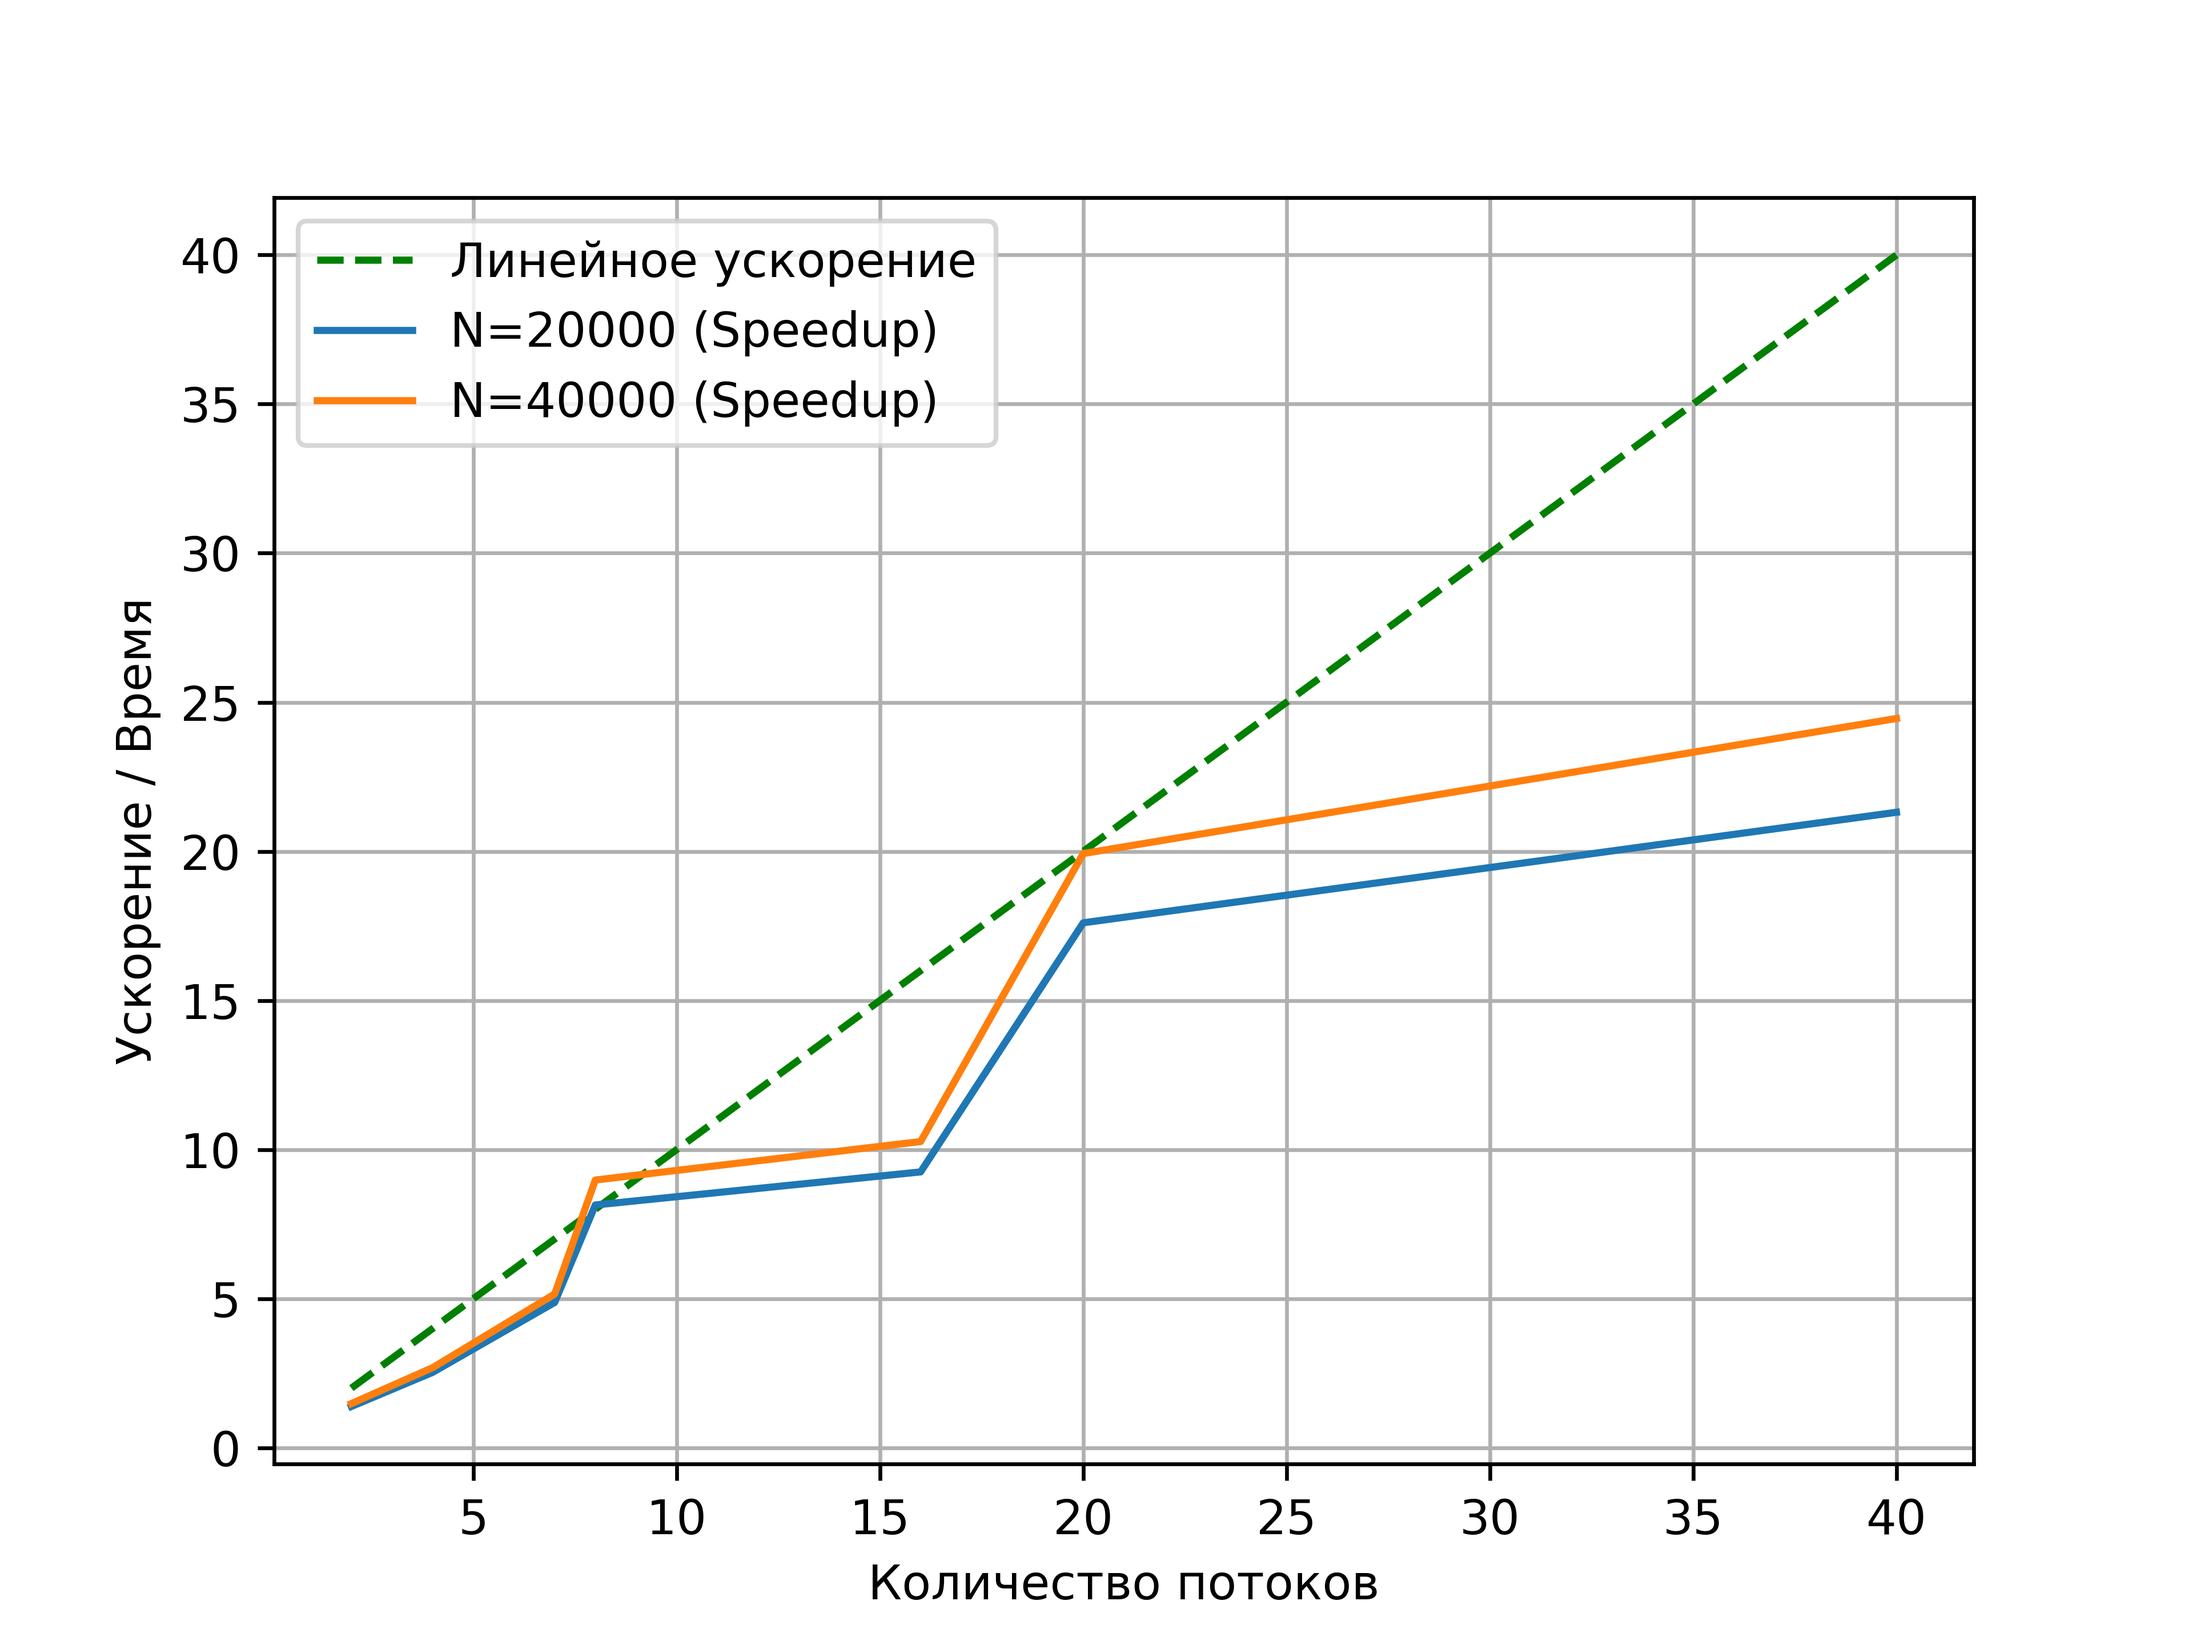
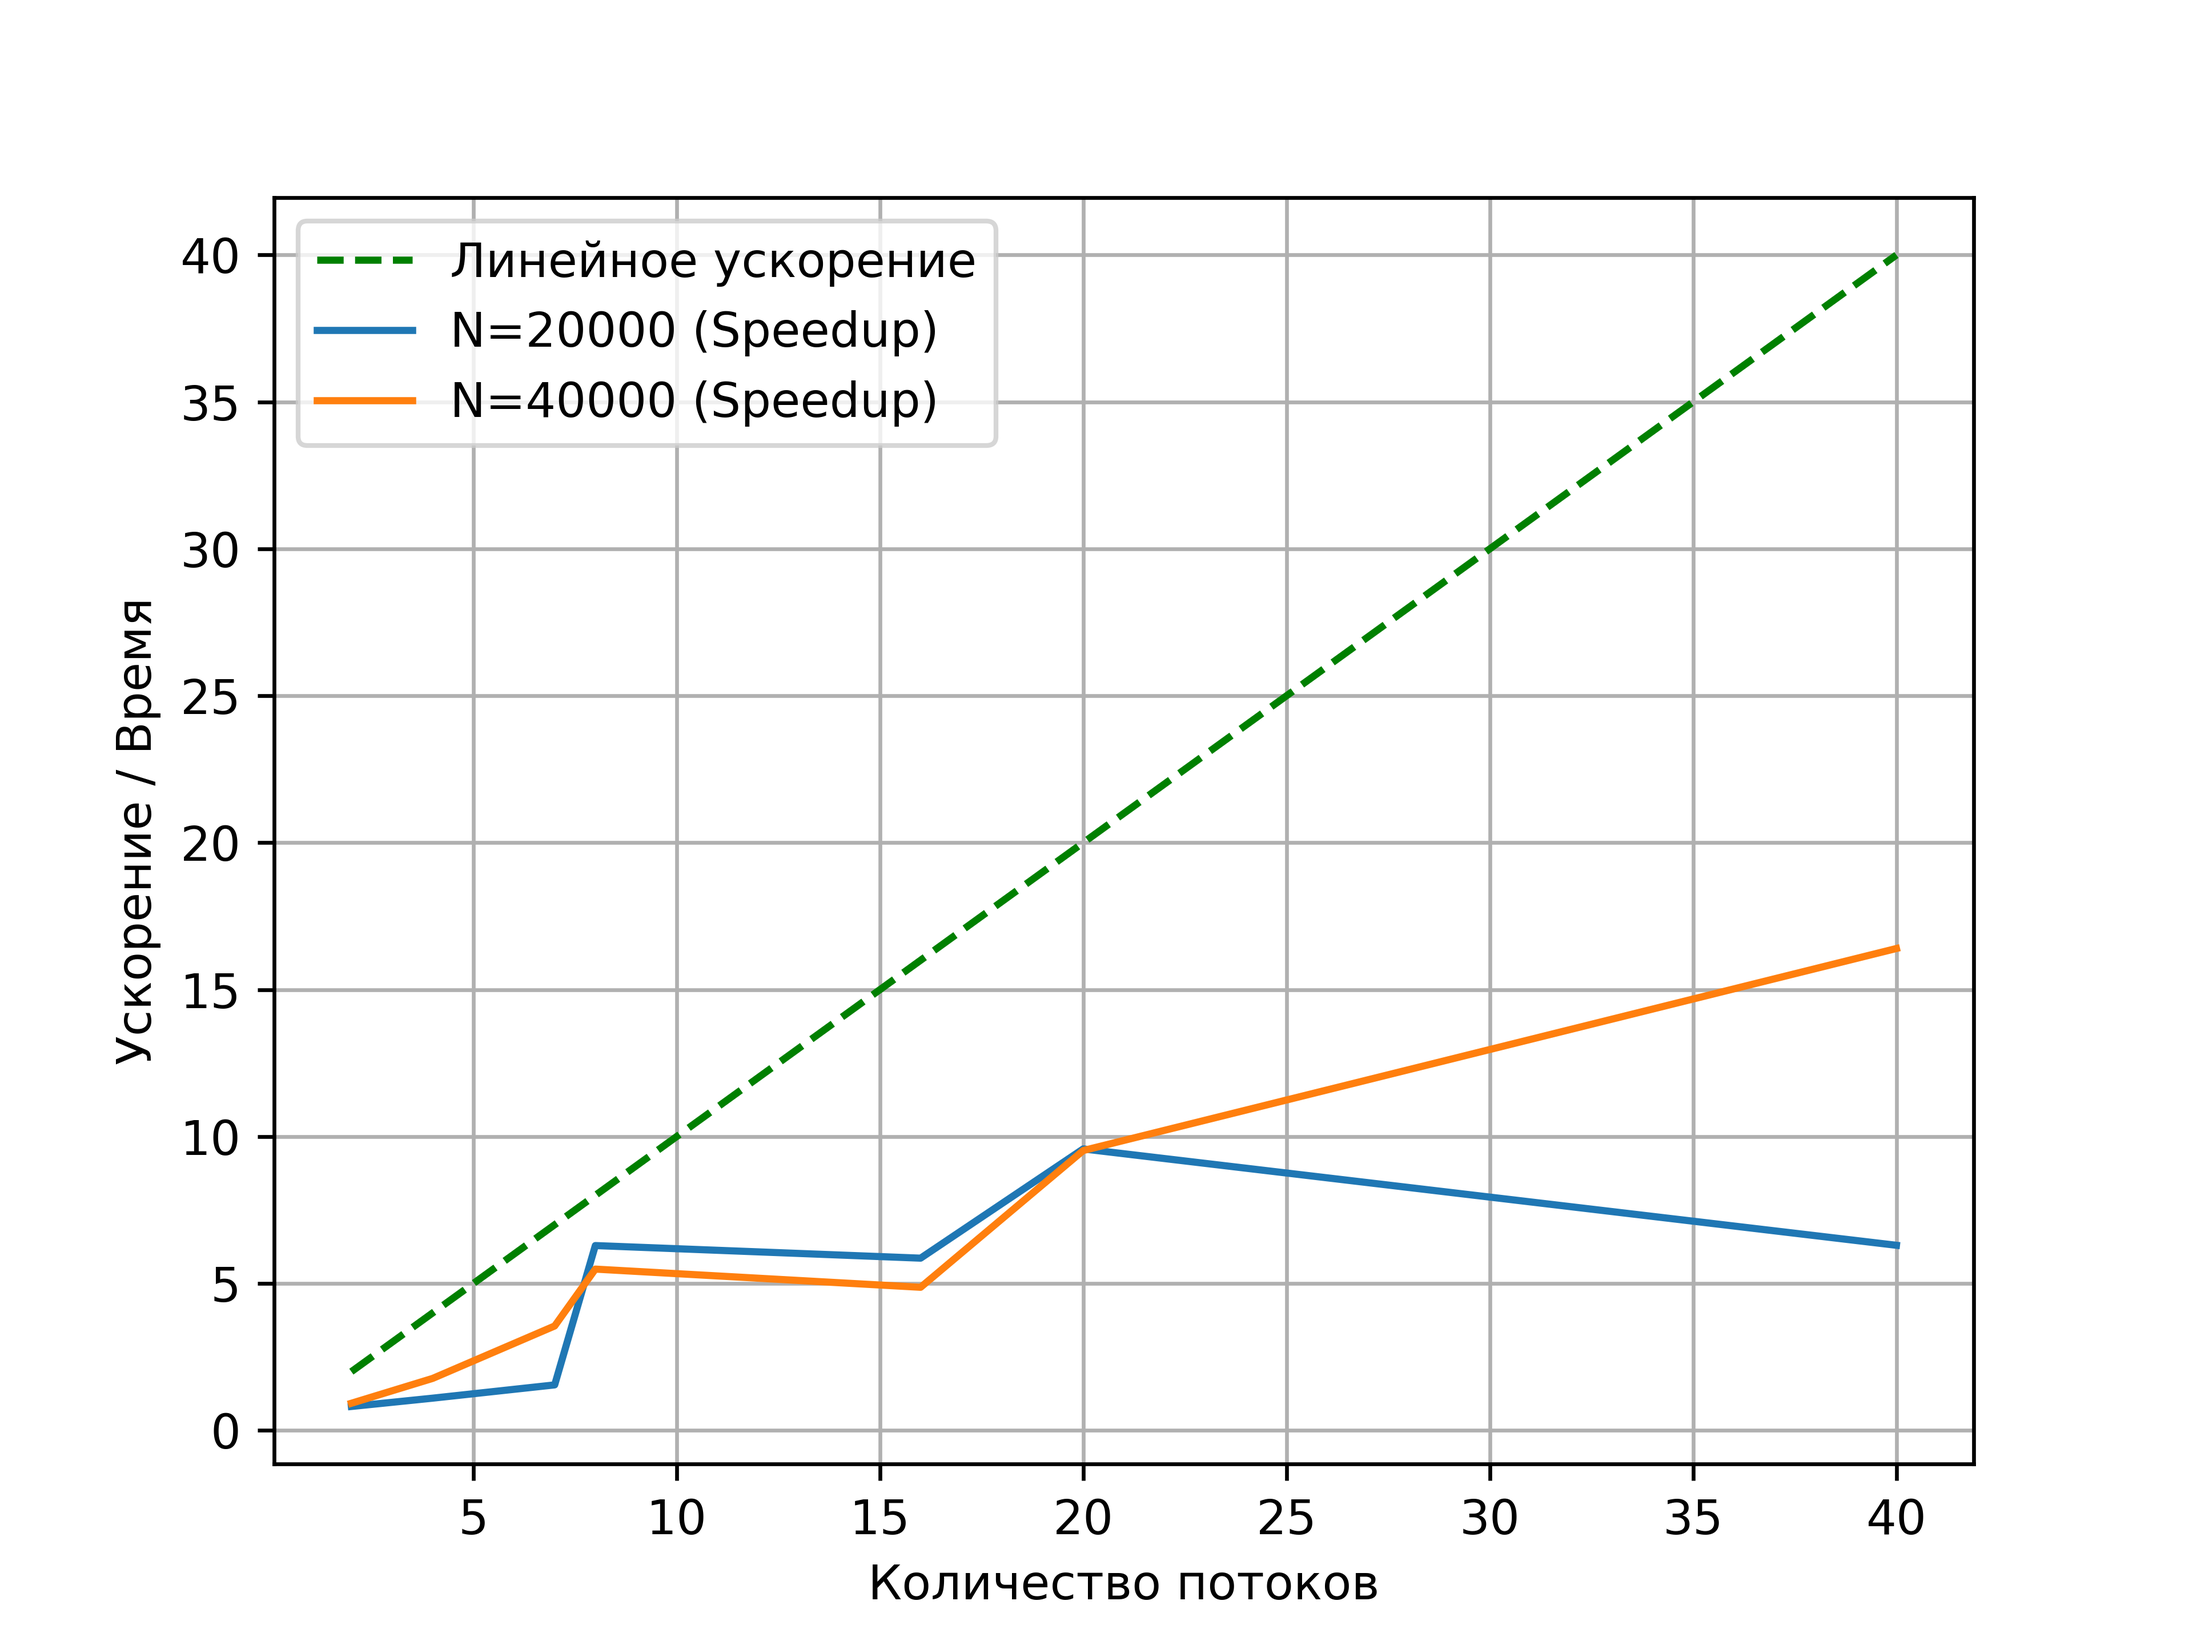
Update Task2_1 and add Task2_2

diff --git a/Task2_1/main.cpp b/Task2_1/main.cpp
@@ -7,7 +7,7 @@
 #include <chrono>
 #include <memory>
 
-void initialization_serial(std::unique_ptr<double[]>& a, std::unique_ptr<double[]>& b, std::unique_ptr<double[]>& c, int m, int n) {
+void initialization_serial(std::shared_ptr<double[]> a, std::shared_ptr<double[]> b, std::shared_ptr<double[]> c, int m, int n) {
     for (int i = 0; i < m; i++) {
         c[i] = 0.0;
         for (int j = 0; j < n; j++) {
@@ -19,7 +19,7 @@ void initialization_serial(std::unique_ptr<double[]>& a, std::unique_ptr<double[
     }
 }
 
-void initialization_parallel(std::unique_ptr<double[]>& a, std::unique_ptr<double[]>& b, std::unique_ptr<double[]>& c, int m, int n, int num_threads) {
+void initialization_parallel(std::shared_ptr<double[]> a, std::shared_ptr<double[]> b, std::shared_ptr<double[]> c, int m, int n, int num_threads) {
     #pragma omp parallel num_threads(num_threads)
     {
         int thread_id = omp_get_thread_num();
@@ -27,7 +27,7 @@ void initialization_parallel(std::unique_ptr<double[]>& a, std::unique_ptr<doubl
 
         int chunk_size = m / total_threads;
         int start_row = thread_id * chunk_size;
-        int end_row = (thread_id == total_threads - 1) ? (m-1) : (start_row + chunk_size - 1);
+        int end_row = (thread_id == total_threads - 1) ? (m - 1) : (start_row + chunk_size - 1);
 
         for (int i = start_row; i < end_row; i++) {
             c[i] = 0.0;
@@ -42,17 +42,17 @@ void initialization_parallel(std::unique_ptr<double[]>& a, std::unique_ptr<doubl
     }
 }
 
-
-void matrix_vector_product_serial(const std::unique_ptr<double[]>& a, const std::unique_ptr<double[]>& b, std::unique_ptr<double[]>& c, int m, int n) {
+void matrix_vector_product_serial(std::shared_ptr<double[]> a, std::shared_ptr<double[]> b, std::shared_ptr<double[]> c, int m, int n) {
     for (int i = 0; i < m; i++) {
-        c[i] = 0.0;
+        double temp = 0.0;
         for (int j = 0; j < n; j++) {
-            c[i] += a[i * n + j] * b[j];
+            temp += a[i * n + j] * b[j];
         }
+        c[i] = temp;
     }
 }
 
-void matrix_vector_product_parallel(const std::unique_ptr<double[]>& a, const std::unique_ptr<double[]>& b, std::unique_ptr<double[]>& c, int m, int n, int num_threads) {
+void matrix_vector_product_parallel(std::shared_ptr<double[]> a, std::shared_ptr<double[]> b, std::shared_ptr<double[]> c, int m, int n, int num_threads) {
     #pragma omp parallel num_threads(num_threads)
     {
         int current_thread_number = omp_get_thread_num();
@@ -83,51 +83,51 @@ int main() {
 
     for (int size : sizes) {
         int m = size, n = size;
-        
+
         std::cout << "Running for size: " << size << "x" << size << std::endl;
 
         std::cout << "_______START SERIAL_______" << std::endl;
         double serial_time = 0.0;
         for (int i = 0; i < 10; ++i) {
-            std::unique_ptr<double[]> a(new double[m * n]);
-            std::unique_ptr<double[]> b(new double[n]);
-            std::unique_ptr<double[]> c(new double[m]);
-            
+            auto a = std::shared_ptr<double[]>(new double[m * n]);
+            auto b = std::shared_ptr<double[]>(new double[n]);
+            auto c = std::shared_ptr<double[]>(new double[m]);
+
             initialization_serial(a, b, c, m, n);
-            
+
             auto start = std::chrono::steady_clock::now();
             matrix_vector_product_serial(a, b, c, m, n);
             auto end = std::chrono::steady_clock::now();
-            
-            auto elapsed_time =std::chrono::duration_cast<std::chrono::milliseconds>( end - start);
+
+            auto elapsed_time = std::chrono::duration_cast<std::chrono::milliseconds>(end - start);
             serial_time += elapsed_time.count();
         }
         serial_time /= 10.0;
         file << size << "," << serial_time;
-        std::cout << "serial time = " << serial_time << " s" << std::endl;
+        std::cout << "serial time = " << serial_time << " ms" << std::endl;
 
         std::cout << "_______START PARALLEL_______" << std::endl;
         for (int threads : thread_counts) {
             double parallel_time = 0.0;
 
             for (int i = 0; i < 10; ++i) {
-                std::unique_ptr<double[]> a(new double[m * n]);
-                std::unique_ptr<double[]> b(new double[n]);
-                std::unique_ptr<double[]> c(new double[m]);
-                
+                auto a = std::shared_ptr<double[]>(new double[m * n]);
+                auto b = std::shared_ptr<double[]>(new double[n]);
+                auto c = std::shared_ptr<double[]>(new double[m]);
+
                 initialization_parallel(a, b, c, m, n, threads);
-                
+
                 auto start = std::chrono::steady_clock::now();
                 matrix_vector_product_parallel(a, b, c, m, n, threads);
                 auto end = std::chrono::steady_clock::now();
-                
-                auto elapsed_time =std::chrono::duration_cast<std::chrono::milliseconds>( end - start);
+
+                auto elapsed_time = std::chrono::duration_cast<std::chrono::milliseconds>(end - start);
                 parallel_time += elapsed_time.count();
             }
 
             parallel_time /= 10.0;
             double speedup = serial_time / parallel_time;
-            std::cout << threads << " threads: " << parallel_time << " s, speedup = " << speedup << std::endl;
+            std::cout << threads << " threads: " << parallel_time << " ms, speedup = " << speedup << std::endl;
             file << "," << parallel_time << "," << speedup;
         }
 

diff --git a/Task2_2/main.cpp b/Task2_2/main.cpp
@@ -1,0 +1,94 @@
+#include <iostream>
+#include <omp.h>
+#include <chrono>
+#include <vector>
+#include <fstream>
+#include <cmath>
+
+typedef double (*func)(double);
+
+double integrate(func f, double a, double b, int n) {
+    double h = (b - a) / n;
+    double sum = 0.0;
+    for (int i = 0; i < n; i++) {
+        sum += f(a + h * (i + 0.5))*h;
+    }
+    return sum;
+}
+
+double integrate_omp(func f, double a, double b, int n, int num_threads) {
+    double h = (b - a) / n;
+    double sum = 0.0;
+
+    #pragma omp parallel num_threads(num_threads)
+    {
+        int nthreads = omp_get_num_threads();
+        int threadid = omp_get_thread_num();
+        int items_per_thread = n / nthreads;
+        int lb = threadid * items_per_thread;
+        int ub = (threadid == nthreads - 1) ? (n - 1) : (lb + items_per_thread - 1);
+        
+        double sumloc = 0.0;
+        for (int i = lb; i <= ub; i++) {
+            sumloc += f(a + h * (i + 0.5))*h;
+        }
+
+        #pragma omp atomic
+        sum += sumloc;
+    }
+
+    return sum;
+}
+
+int main() {
+    const int nsteps = 40000000;
+    const double a = 0.0;
+    const double b = 1.0;
+
+    std::vector<int> thread_counts = {1, 2, 4, 7, 8, 16, 20, 40};
+
+    std::ofstream file("../results/integration_speedup.csv");
+    file << "N=M,T1,T2,S2,T4,S4,T7,S7,T8,S8,T16,S16,T20,S20,T40,S40\n";
+
+    file << nsteps;
+
+    std::cout << "Running serial version..." << std::endl;
+    double serial_time = 0.0;
+    for (int i = 0; i < 10; ++i) {
+        auto start = std::chrono::steady_clock::now();
+        double reference = integrate(std::exp, a, b, nsteps);
+        auto end = std::chrono::steady_clock::now();
+        
+        auto elapsed_time = std::chrono::duration<double>(end - start);
+        serial_time += elapsed_time.count();
+    }
+    serial_time /= 10.0;
+    std::cout << "Serial time = " << serial_time << " s" << std::endl;
+
+    file << "," << serial_time;
+
+    std::cout << "Running parallel version..." << std::endl;
+    for (int threads : thread_counts) {
+        double parallel_time = 0.0;
+        for (int i = 0; i < 10; ++i) {
+            auto start = std::chrono::steady_clock::now();
+            double result = integrate_omp(std::exp, a, b, nsteps, threads);
+            auto end = std::chrono::steady_clock::now();
+            
+            auto elapsed_time = std::chrono::duration<double>(end - start);
+            parallel_time += elapsed_time.count();
+        }
+        parallel_time /= 10.0;
+
+        double speedup = serial_time / parallel_time;
+
+        std::cout << threads << " threads: time = " << parallel_time << " s, speedup = " << speedup << std::endl;
+
+        file << "," << parallel_time << "," << speedup;
+    }
+
+    file << "\n";
+    file.close();
+    std::cout << "Results written to integration_speedup.csv" << std::endl;
+    return 0;
+}

diff --git a/Task2_2/graph.py b/Task2_2/graph.py
@@ -1,0 +1,29 @@
+import matplotlib.pyplot as plt
+import pandas as pd
+from io import StringIO
+
+# Данные в формате CSV
+data = """N=M,T1,T2,S2,T4,S4,T7,S7,T8,S8,T16,S16,T20,S20,T40,S40
+40000000,0.422813,1,0.393673,1.07402,0.198368,2.13146,0.104108,4.06128,0.0567781,7.44675,0.0503351,8.39995,0.0327347,12.9163,0.0328157,12.8844,0.0185497,22.7935"""
+
+# Чтение данных
+df = pd.read_csv(StringIO(data))
+
+# Извлечение количества потоков и значений ускорения
+threads = [1, 2, 4, 7, 8, 16, 20, 40]
+# Для потока 1 ускорение всегда 1
+# Для остальных потоков берем значения из колонок S2, S4 и т.д.
+speedups = [1] + [df[f'S{t}'].iloc[0] for t in threads[1:]]
+
+# Построение графика
+plt.figure(figsize=(10, 6))
+plt.plot(threads, speedups, 'bo-', label='Измеренное ускорение')
+plt.plot(threads, threads, 'r--', label='Линейное ускорение (идеальное)')
+plt.xlabel('Количество потоков', fontsize=12)
+plt.ylabel('Ускорение', fontsize=12)
+plt.title('График ускорения от количества потоков (N=40,000,000)', fontsize=14)
+plt.grid(True, linestyle='--', alpha=0.7)
+plt.legend()
+plt.xticks(threads)
+plt.savefig('gr.png', format="png", dpi=600)
+print(f"График сохранён")

diff --git a/Task2_2/graphics.py b/Task2_2/graphics.py
@@ -1,0 +1,39 @@
+import argparse
+import matplotlib.pyplot as plt
+
+parser = argparse.ArgumentParser()
+parser.add_argument("-d", "--data", required=True, help="Path to the data file")
+parser.add_argument("-s", "--save", required=True, help="Path to save the output image")
+args = parser.parse_args()
+
+data_path = args.data
+save_path = args.save
+
+data = {}
+with open(data_path, "r") as file:
+    lines = [line.strip().split(",") for line in file.readlines()]
+    
+    X = [2, 4, 7, 8, 16, 20, 40] 
+    
+    for line in lines[1:]:
+        data = [[], []]
+        # Время (T2, T4, T7, T8, T16, T20, T40) и Ускорение (S2, S4, S7, S8, S16, S20, S40)
+        time_values = [float(line[i]) for i in [2, 4, 6, 8, 10, 12, 14]]
+        speedup_values = [float(line[i]) for i in [3, 5, 7, 9, 11, 13, 15]]
+
+        data[0] = time_values
+        data[1] = speedup_values
+
+
+plt.grid(True)
+plt.xlabel("Количество потоков")
+plt.ylabel("Ускорение")
+
+plt.plot(X, X, "g--", label="Идеальное ускорение")
+
+plt.plot(X, data[1], label=f"Speedup")
+
+plt.legend()
+
+plt.savefig(save_path, format="png", dpi=600)
+print(f"График сохранён в {save_path}")

diff --git a/Task2_2/README.md b/Task2_2/README.md
@@ -1,0 +1,10 @@
+## *Задача 2.2*
+Для запуска выполнить 
+```
+./build_and_run
+```
+После выполнения программы в папке `results` будут записаны файлы `.csv` и `.png`.
+
+`.csv` - таблица, содержащая время и ускорение по разному числу потоков.
+
+`.png` - график ускорения. Также изображено линейное ускорение.
